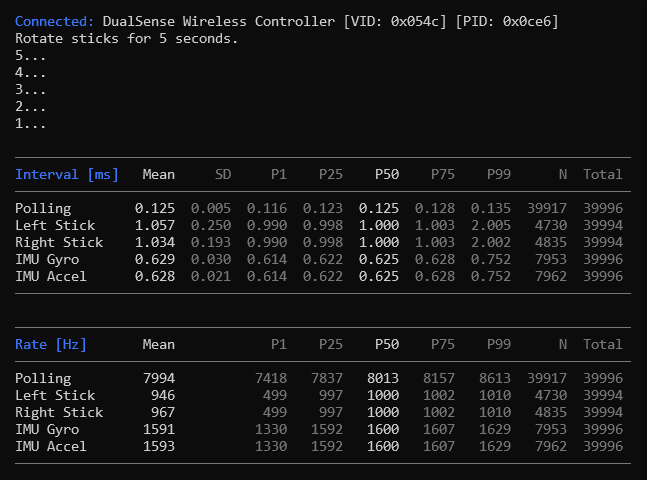
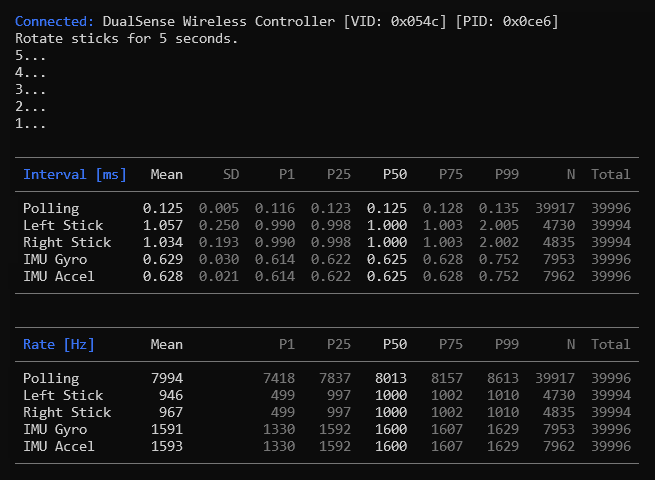
Adjust table formatting

diff --git a/main.c b/main.c
@@ -916,7 +916,7 @@ static void ShowResults(appstate_t *as)
         as->accel.enabled,
     };
     const char *names[] = {
-        "Polling",
+        as->verbose ? "Polling" : "Polling Rate",
         as->left.enabled && as->right.enabled ? "Left Stick" : "Stick",
         as->left.enabled && as->right.enabled ? "Right Stick" : "Stick",
         "IMU Gyro",
@@ -932,14 +932,14 @@ static void ShowResults(appstate_t *as)
     {
         SDL_Log("");
         SDL_Log("%s────────────────────────────────────────────────────────────"
-                "─────────────────%s",
+                "──────────────────%s",
                 as->gray, as->end);
-        SDL_Log("%s%-13s%s %6s %s%6s %6s %6s%s %6s %s%6s %6s %6s %6s%s",
+        SDL_Log(" %s%-13s%s %6s %s%6s %6s %6s%s %6s %s%6s %6s %6s %6s%s",
                 as->blue, "Interval [ms]", as->end, "Mean", as->gray, "SD",
                 "P1", "P25", as->end, "P50", as->gray, "P75", "P99", "N",
                 "Total", as->end);
         SDL_Log("%s────────────────────────────────────────────────────────────"
-                "─────────────────%s",
+                "──────────────────%s",
                 as->gray, as->end);
         for (size_t i = 0; i < num_rows; i++)
         {
@@ -947,26 +947,26 @@ static void ShowResults(appstate_t *as)
             const stats_set_t *set = &stats->interval;
             if (enabled[i])
             {
-                SDL_Log("%-13s %6.3f %s%6.3f %6.3f %6.3f%s %6.3f %s%6.3f %6.3f "
-                        "%6d %6d%s",
+                SDL_Log(" %-13s %6.3f %s%6.3f %6.3f %6.3f%s %6.3f %s%6.3f "
+                        "%6.3f %6d %6d%s",
                         names[i], set->mean, as->gray, set->sd, set->p1,
                         set->p25, as->end, set->p50, as->gray, set->p75,
                         set->p99, stats->count, stats->num_samples, as->end);
             }
         }
         SDL_Log("%s────────────────────────────────────────────────────────────"
-                "─────────────────%s",
+                "──────────────────%s",
                 as->gray, as->end);
         SDL_Log("");
         SDL_Log("%s────────────────────────────────────────────────────────────"
-                "─────────────────%s",
+                "──────────────────%s",
                 as->gray, as->end);
-        SDL_Log("%s%-13s%s %6s %s%6s %6s %6s%s %6s %s%6s %6s %6s %6s%s",
+        SDL_Log(" %s%-13s%s %6s %s%6s %6s %6s%s %6s %s%6s %6s %6s %6s%s",
                 as->blue, "Rate [Hz]", as->end, "Mean", as->gray, "", "P1",
                 "P25", as->end, "P50", as->gray, "P75", "P99", "N", "Total",
                 as->end);
         SDL_Log("%s────────────────────────────────────────────────────────────"
-                "─────────────────%s",
+                "──────────────────%s",
                 as->gray, as->end);
         for (size_t i = 0; i < num_rows; i++)
         {
@@ -974,7 +974,7 @@ static void ShowResults(appstate_t *as)
             const stats_set_t *set = &stats->rate;
             if (enabled[i])
             {
-                SDL_Log("%-13s %6.0f %s%6s %6.0f %6.0f%s %6.0f %s%6.0f %6.0f "
+                SDL_Log(" %-13s %6.0f %s%6s %6.0f %6.0f%s %6.0f %s%6.0f %6.0f "
                         "%6d %6d%s",
                         names[i], set->mean, as->gray, "", set->p1, set->p25,
                         as->end, set->p50, as->gray, set->p75, set->p99,
@@ -982,7 +982,7 @@ static void ShowResults(appstate_t *as)
             }
         }
         SDL_Log("%s────────────────────────────────────────────────────────────"
-                "─────────────────%s",
+                "──────────────────%s",
                 as->gray, as->end);
     }
     else